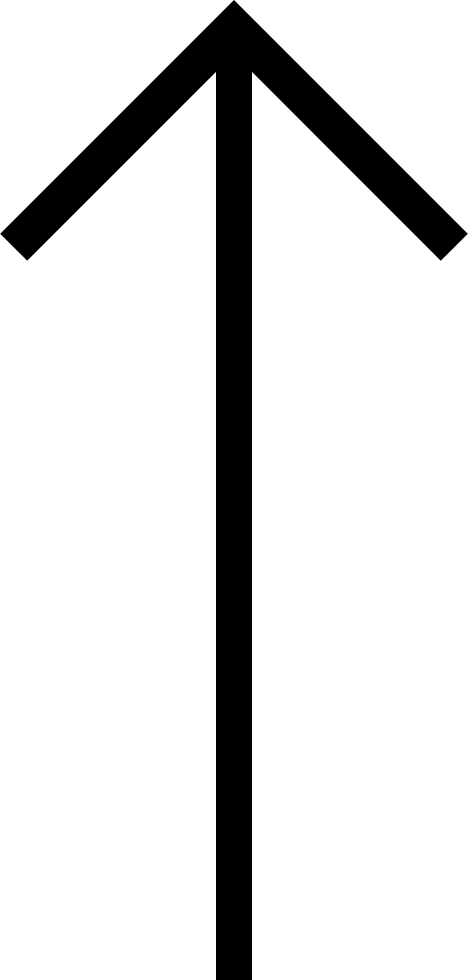
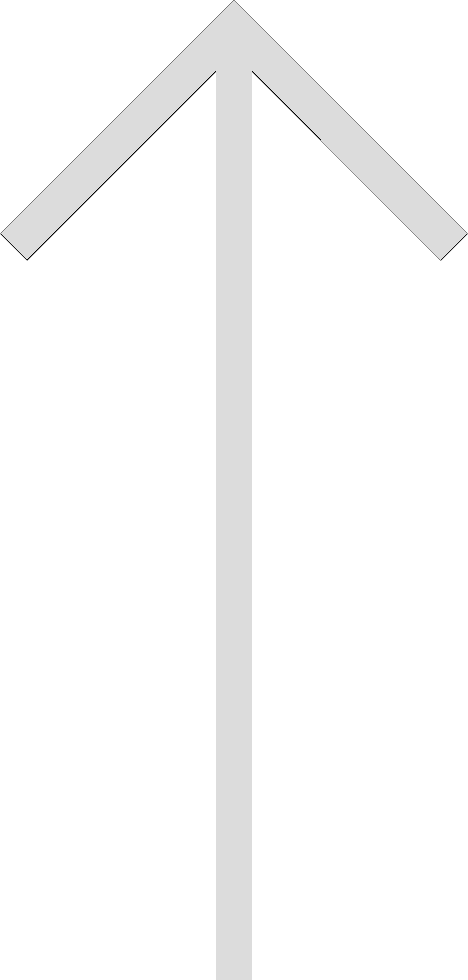
Added responsiveness

Changed region(s): [[0.0, 0.0, 1.0, 1.0]]

diff --git a/styles.css b/styles.css
@@ -28,7 +28,7 @@
 .line {
   position: fixed;
   z-index: 1;
-  width: 100vw;
+  width: 300vw;
   height: 20px;
   background-color: #d4d4d4;
   top: 12.2rem;
@@ -40,10 +40,10 @@
   border-radius: 8px;
   background-color: #000c40;
   width: 50vw;
-  height: 100px;
+  height: 20px;
   font-size: 2rem;
   left: 25vw;
-  top: 10rem;
+  top: 15.3rem;
 }
 
 .container {
@@ -96,6 +96,29 @@
   line-height: 2rem;
 }
 
+.box {
+  position: fixed;
+  color: black;
+  border-radius: 8px;
+  z-index: 100;
+  top: 9rem;
+  width: 20rem;
+  text-align: center;
+  transform: translate(-50%, -50%);
+}
+
+.box-1 {
+  left: 50vw;
+}
+
+.box-2 {
+  left: 122vw;
+}
+
+.box-3 {
+  left: 194vw;
+}
+
 /*
 .box {
   display: flex;
@@ -125,7 +148,7 @@
 .terms {
   position: fixed;
   z-index: 1;
-  top: 13.5rem;
+  top: 15rem;
   left: 27vw;
   display: flex;
   flex-direction: row;
@@ -174,7 +197,7 @@
 .list-3 {
   list-style-type: none;
   position: fixed;
-  top: 20rem;
+  top: 25rem;
   left: 185vw;
 }
 
@@ -185,21 +208,161 @@
 .arrow {
   display: block;
   position: fixed;
-  width: 20px;
-  z-index: 1;
+  width: 50px;
+  z-index: 0;
 }
 
 .arrow-1 {
-  top: 8.1rem;
+  top: 6rem;
   left: 78vw;
 }
 
 .arrow-2 {
-  top: 6.5rem;
+  top: 6rem;
   left: 217vw;
 }
 
 .arrow-3 {
-  top: 17.1rem;
+  top: 13rem;
   left: 217vw;
+  transform: rotate(-180deg);
+}
+
+/* Extra small devices (phones, 600px and down) */
+@media only screen and (max-width: 600px) {
+  .container section .content {
+    display: none;
+  }
+
+  .terms {
+    display: none;
+  }
+
+  .list * {
+    width: 70vw;
+  }
+
+  .list .logo {
+    width: 30px;
+  }
+
+  .list-1 {
+    left: 13vw;
+  }
+
+  .list-2 {
+    left: 145vw;
+  }
+
+  .list-3 {
+    left: 145vw;
+    top: 22rem;
+  }
+}
+
+/* Small devices (portrait tablets and large phones, 600px and up) */
+@media only screen and (min-width: 600px) {
+  .container section .content {
+    display: none;
+  }
+
+  .terms {
+    display: none;
+  }
+
+  .list * {
+    width: 60vw;
+  }
+
+  .list .logo {
+    width: 30px;
+  }
+
+  .list-1 {
+    left: 20vw;
+  }
+
+  .list-2 {
+    left: 160vw;
+  }
+
+  .list-3 {
+    left: 155vw;
+    top: 20rem;
+  }
+}
+
+/* Medium devices (landscape tablets, 768px and up) */
+@media only screen and (min-width: 768px) {
+  .container section .content {
+    display: none;
+  }
+
+  .terms {
+    display: flex;
+  }
+
+  .list * {
+    width: 40vw;
+  }
+
+  .list-1 {
+    left: 35vw;
+    position: fixed;
+  }
+
+  .list-2 {
+    left: 175vw;
+    position: fixed;
+  }
+
+  .list-3 {
+    list-style-type: none;
+    position: fixed;
+    top: 22rem;
+    left: 175vw;
+  }
+
+  .logo {
+    width: 30px;
+    transform: translateY(25%);
+  }
+}
+
+/* Large devices (laptops/desktops, 992px and up) */
+@media only screen and (min-width: 992px) {
+  .container section .content {
+    width: 60vw;
+    display: flex;
+  }
+
+  .list * {
+    width: 45vw;
+  }
+
+  .list-1 {
+    left: 45vw;
+    position: fixed;
+  }
+
+  .list-2 {
+    left: 180vw;
+    position: fixed;
+  }
+
+  .list-3 {
+    list-style-type: none;
+    position: fixed;
+    top: 19rem;
+    left: 170vw;
+  }
+
+  .logo {
+    width: 30px;
+    transform: translateY(25%);
+  }
+}
+
+/* Extra large devices (large laptops and desktops, 1200px and up) */
+@media only screen and (min-width: 1200px) {
 }

diff --git a/index.html b/index.html
@@ -20,17 +20,13 @@
         data-1000="transform:translateX(-76.66%)"
       ></div>
       -->
-      <div class="line"></div>
+
       <div class="fixed-box"></div>
       <div
         class="names"
         data-0="transform:translateX(0%)"
         data-1000="transform: translateX(-60%) "
-      >
-        <div class="box">Medical Foundation</div>
-        <div class="box">Pre-Med (CertHE) BSc. Year 1)</div>
-        <div class="box">BSc. Year 2</div>
-      </div>
+      ></div>
       <div
         class="year-list"
         data-0="transform:translateX(0%)"
@@ -63,29 +59,16 @@
           </li>
         </ul>
       </div>
-      <img
-        src="./arrow.png"
-        class="arrow arrow-1"
-        data-0="transform:translateX(0%)"
-        data-1000="transform:translateX(-11000px)"
-      />
-      <img
-        src="./arrow.png"
-        class="arrow arrow-2"
-        data-0="transform:translateX(0%)"
-        data-1000="transform:translateX(-11000px)"
-      />
-      <img
-        src="./arrow.png"
-        class="arrow arrow-3"
-        data-0="transform:rotate(180deg) translateX(0%)"
-        data-1000="transform:rotate(180deg) translateX(11000px)"
-      />
+
       <div
         class="container"
         data-0="transform:translateX(0%)"
         data-1000="transform:translateX(-145%)"
       >
+        <div class="line"></div>
+        <div class="box box-1">Medical Foundation</div>
+        <div class="box box-2">Pre-Med (CertHE) BSc. Year 1</div>
+        <div class="box box-3">BSc. Year 2</div>
         <section>
           <div class="content">
             <ul>
@@ -157,6 +140,9 @@
             <li>Term 4</li>
           </ul>
         </div>
+        <img src="./arrow.png" class="arrow arrow-1" />
+        <img src="./arrow.png" class="arrow arrow-2" />
+        <img src="./arrow.png" class="arrow arrow-3" />
       </div>
     </div>
 
